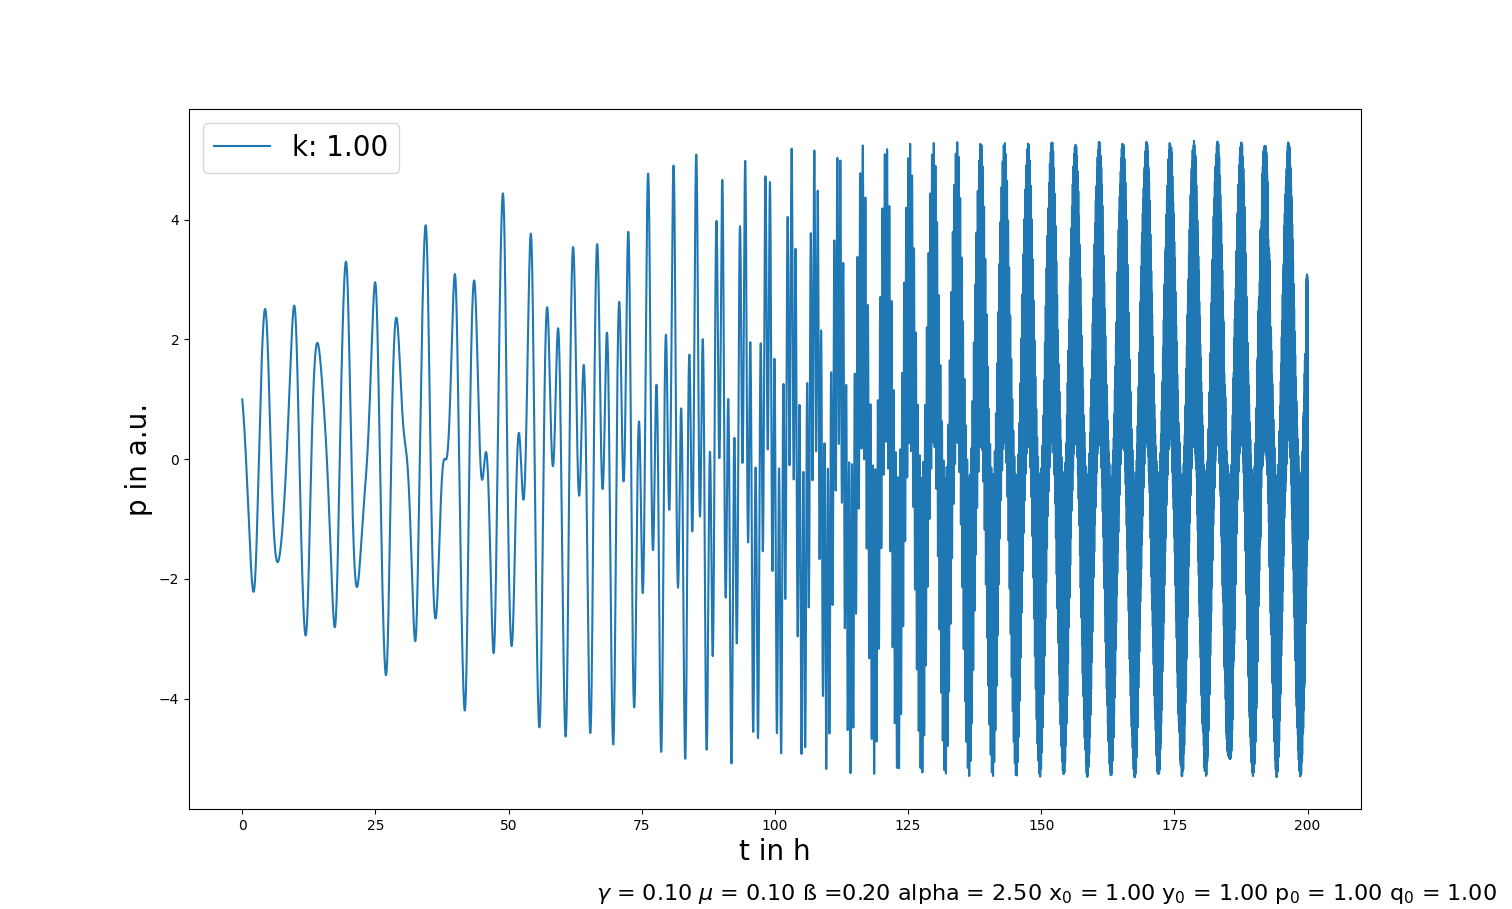
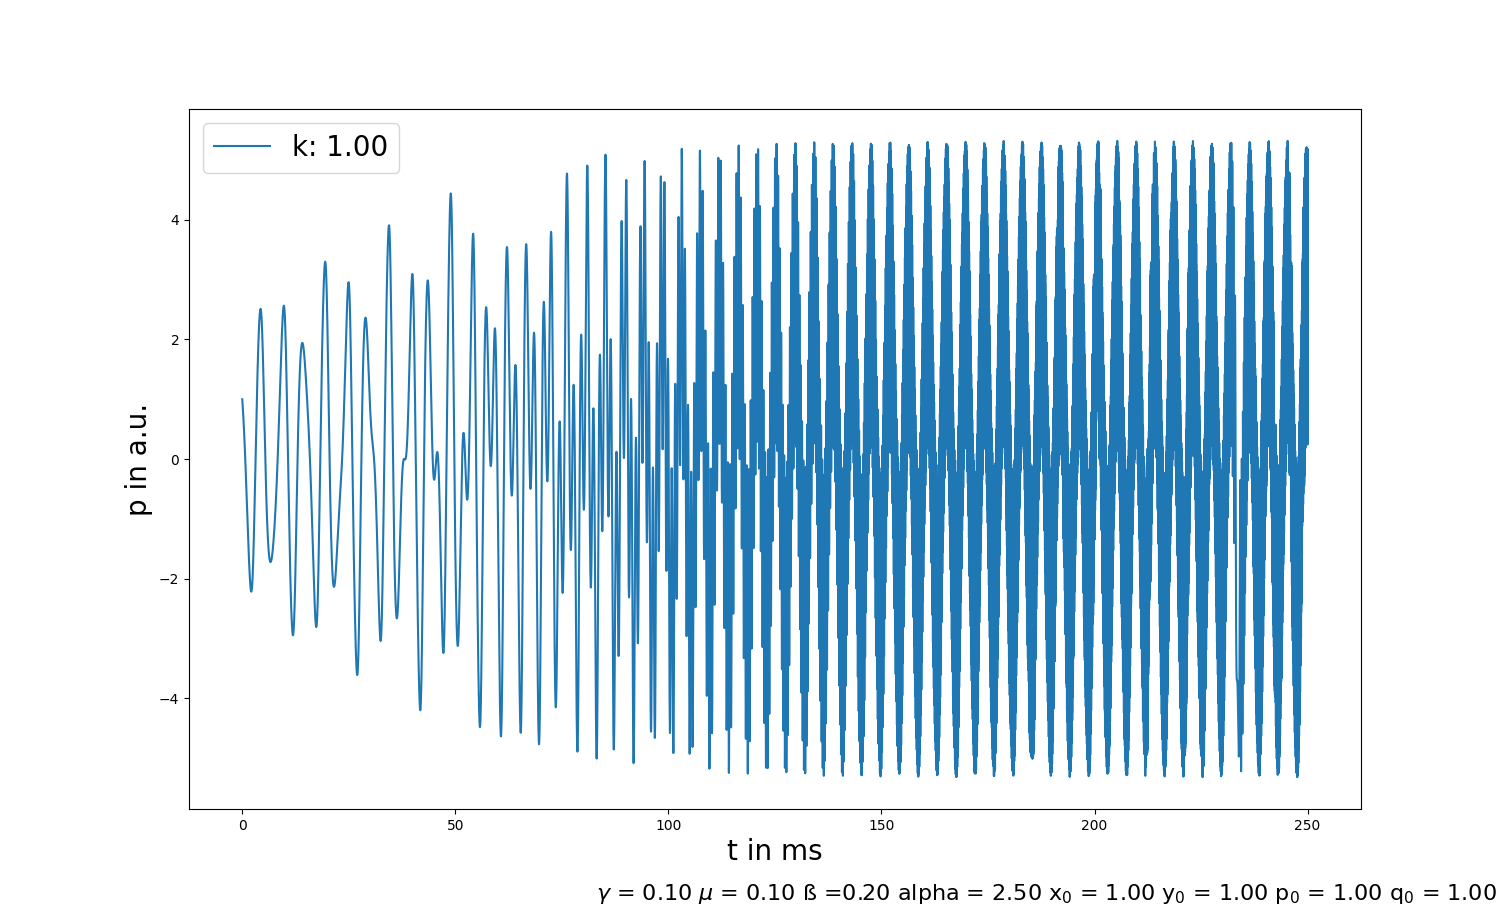
k0

diff --git a/ODE/linearcombi.py b/ODE/linearcombi.py
@@ -85,78 +85,121 @@ t_last = 250 # 50h -> 1 point represent 1h
 t = np.arange(0, 5000, t_step)
 keep = int(t_last / t_step)
 
-x = 1
-y = 1
-q = 1
-p = 1
-par = x,y,p,q
-k = 2.5
-gamma = 0.1
-mu = 0.1
-beta = 0.2
-alpha = 2.5
+# [find peaks]____________________________________________________________________________________________________________________________________________________________________________________________________________
 
-lilie = LinearCoupling(par, t, k, mu, gamma, alpha, beta)
-xsol = lilie.x_solv()[:keep]
-ysol = lilie.y_solv()[:keep]
-psol = lilie.p_solv()[:keep]
-qsol = lilie.q_solv()[:keep]
+# x = 1
+# y = 1
+# q = 1
+# p = 1
+# par = x,y,p,q
+# k = 2.5
+# gamma = 0.1
+# mu = 0.1
+# beta = 0.2
+# alpha = 2.5
 
-x_max = np.argmax(xsol)
-x_amplitude = find_peaks(xsol, height=(-np.repeat(xsol[x_max], keep), np.repeat(xsol[x_max], keep)))
-plt.plot([np.arange(0, t_last, t_step)[i] for i in x_amplitude[0]], x_amplitude[1]['peak_heights'], "x")
-plt.plot(np.arange(0, t_last, t_step), xsol)
-plt.plot(np.arange(0, t_last, t_step),-np.repeat(xsol[x_max], keep),":", color="gray")
-plt.plot(np.arange(0, t_last, t_step),np.repeat(xsol[x_max], keep),":", color="gray")
-title = "k = "+ f"{k:.2f} $\gamma$ = " + f"{gamma:.2f} $\mu$ = " + f"{mu:.2f} ß =" + f"{beta:.2f} alpha = " + f"{alpha:.2f} x$_0$ = " + f"{par[0]:.2f} y$_0$ = "+ f"{par[1]:.2f} p$_0$ = "+ f"{par[2]:.2f} q$_0$ = "+ f"{par[3]:.2f}"
-plt.figtext(0.99, 0.01, title,
-        horizontalalignment="right",
-        fontsize = 16)
-plt.xlabel("t in h", fontsize = 20)
-plt.ylabel("x in a.u.", fontsize = 20)
-plt.show()
+# lilie = LinearCoupling(par, t, k, mu, gamma, alpha, beta)
+# xsol = lilie.x_solv()[:keep]
+# ysol = lilie.y_solv()[:keep]
+# psol = lilie.p_solv()[:keep]
+# qsol = lilie.q_solv()[:keep]
 
-y_max = np.argmax(ysol)
-y_amplitude = find_peaks(ysol, height=(-np.repeat(ysol[:keep][y_max], keep), np.repeat(ysol[:keep][y_max], keep)))
-plt.plot([np.arange(0, t_last, t_step)[i] for i in y_amplitude[0]], y_amplitude[1]['peak_heights'], "x")
-plt.plot(np.arange(0, t_last, t_step), ysol)
-plt.plot(np.arange(0, t_last, t_step),-np.repeat(ysol[y_max], keep),":", color="gray")
-plt.plot(np.arange(0, t_last, t_step),np.repeat(ysol[y_max], keep),":", color="gray")
-title = "k = "+ f"{k:.2f} $\gamma$ = " + f"{gamma:.2f} $\mu$ = " + f"{mu:.2f} ß =" + f"{beta:.2f} alpha = " + f"{alpha:.2f} x$_0$ = " + f"{par[0]:.2f} y$_0$ = "+ f"{par[1]:.2f} p$_0$ = "+ f"{par[2]:.2f} q$_0$ = "+ f"{par[3]:.2f}"
-plt.figtext(0.99, 0.01, title,
-        horizontalalignment="right",
-        fontsize = 16)
-plt.xlabel("t in h", fontsize = 20)
-plt.ylabel("y in a.u.", fontsize = 20)
-plt.show()
+# x_max = np.argmax(xsol)
+# x_amplitude = find_peaks(xsol, height=(-np.repeat(xsol[x_max], keep), np.repeat(xsol[x_max], keep)))
+# plt.plot([np.arange(0, t_last, t_step)[i] for i in x_amplitude[0]], x_amplitude[1]['peak_heights'], "x")
+# plt.plot(np.arange(0, t_last, t_step), xsol)
+# plt.plot(np.arange(0, t_last, t_step),-np.repeat(xsol[x_max], keep),":", color="gray")
+# plt.plot(np.arange(0, t_last, t_step),np.repeat(xsol[x_max], keep),":", color="gray")
+# title = "k = "+ f"{k:.2f} $\gamma$ = " + f"{gamma:.2f} $\mu$ = " + f"{mu:.2f} ß =" + f"{beta:.2f} alpha = " + f"{alpha:.2f} x$_0$ = " + f"{par[0]:.2f} y$_0$ = "+ f"{par[1]:.2f} p$_0$ = "+ f"{par[2]:.2f} q$_0$ = "+ f"{par[3]:.2f}"
+# plt.figtext(0.99, 0.01, title,
+#         horizontalalignment="right",
+#         fontsize = 16)
+# plt.xlabel("t in ms", fontsize = 20)
+# plt.ylabel("x in a.u.", fontsize = 20)
+# plt.show()
 
-p_max = np.argmax(psol)
-p_amplitude = find_peaks(psol, height=(-np.repeat(psol[p_max], keep), np.repeat(psol[p_max], keep)))
-plt.plot([np.arange(0, t_last, t_step)[i] for i in p_amplitude[0]], p_amplitude[1]['peak_heights'], "x")
-plt.plot(np.arange(0, t_last, t_step), psol)
-plt.plot(np.arange(0, t_last, t_step),-np.repeat(psol[p_max], keep),":", color="gray")
-plt.plot(np.arange(0, t_last, t_step),np.repeat(psol[p_max], keep),":", color="gray")
-title = "k = "+ f"{k:.2f} $\gamma$ = " + f"{gamma:.2f} $\mu$ = " + f"{mu:.2f} ß =" + f"{beta:.2f} alpha = " + f"{alpha:.2f} x$_0$ = " + f"{par[0]:.2f} y$_0$ = "+ f"{par[1]:.2f} p$_0$ = "+ f"{par[2]:.2f} q$_0$ = "+ f"{par[3]:.2f}"
-plt.figtext(0.99, 0.01, title,
-        horizontalalignment="right",
-        fontsize = 16)
-plt.xlabel("t in h", fontsize = 20)
-plt.ylabel("p in a.u.", fontsize = 20)
-plt.show()
+# y_max = np.argmax(ysol)
+# y_amplitude = find_peaks(ysol, height=(-np.repeat(ysol[:keep][y_max], keep), np.repeat(ysol[:keep][y_max], keep)))
+# plt.plot([np.arange(0, t_last, t_step)[i] for i in y_amplitude[0]], y_amplitude[1]['peak_heights'], "x")
+# plt.plot(np.arange(0, t_last, t_step), ysol)
+# plt.plot(np.arange(0, t_last, t_step),-np.repeat(ysol[y_max], keep),":", color="gray")
+# plt.plot(np.arange(0, t_last, t_step),np.repeat(ysol[y_max], keep),":", color="gray")
+# title = "k = "+ f"{k:.2f} $\gamma$ = " + f"{gamma:.2f} $\mu$ = " + f"{mu:.2f} ß =" + f"{beta:.2f} alpha = " + f"{alpha:.2f} x$_0$ = " + f"{par[0]:.2f} y$_0$ = "+ f"{par[1]:.2f} p$_0$ = "+ f"{par[2]:.2f} q$_0$ = "+ f"{par[3]:.2f}"
+# plt.figtext(0.99, 0.01, title,
+#         horizontalalignment="right",
+#         fontsize = 16)
+# plt.xlabel("t in ms", fontsize = 20)
+# plt.ylabel("y in a.u.", fontsize = 20)
+# plt.show()
 
-q_max = np.argmax(qsol)
-q_amplitude = find_peaks(qsol, height=(-np.repeat(qsol[q_max], keep), np.repeat(qsol[q_max], keep)))
-plt.plot([np.arange(0, t_last, t_step)[i] for i in q_amplitude[0]], q_amplitude[1]['peak_heights'], "x")
-plt.plot(np.arange(0, t_last, t_step), qsol)
-plt.plot(np.arange(0, t_last, t_step),-np.repeat(qsol[q_max], keep),":", color="gray")
-plt.plot(np.arange(0, t_last, t_step),np.repeat(qsol[q_max], keep),":", color="gray")
-title = "k = "+ f"{k:.2f} $\gamma$ = " + f"{gamma:.2f} $\mu$ = " + f"{mu:.2f} ß =" + f"{beta:.2f} alpha = " + f"{alpha:.2f} x$_0$ = " + f"{par[0]:.2f} y$_0$ = "+ f"{par[1]:.2f} p$_0$ = "+ f"{par[2]:.2f} q$_0$ = "+ f"{par[3]:.2f}"
-plt.figtext(0.99, 0.01, title,
-        horizontalalignment="right",
-        fontsize = 16)
-plt.xlabel("t in h", fontsize = 20)
-plt.ylabel("q in a.u.", fontsize = 20)
-plt.show()
+# p_max = np.argmax(psol)
+# p_amplitude = find_peaks(psol, height=(-np.repeat(psol[p_max], keep), np.repeat(psol[p_max], keep)))
+# plt.plot([np.arange(0, t_last, t_step)[i] for i in p_amplitude[0]], p_amplitude[1]['peak_heights'], "x")
+# plt.plot(np.arange(0, t_last, t_step), psol)
+# plt.plot(np.arange(0, t_last, t_step),-np.repeat(psol[p_max], keep),":", color="gray")
+# plt.plot(np.arange(0, t_last, t_step),np.repeat(psol[p_max], keep),":", color="gray")
+# title = "k = "+ f"{k:.2f} $\gamma$ = " + f"{gamma:.2f} $\mu$ = " + f"{mu:.2f} ß =" + f"{beta:.2f} alpha = " + f"{alpha:.2f} x$_0$ = " + f"{par[0]:.2f} y$_0$ = "+ f"{par[1]:.2f} p$_0$ = "+ f"{par[2]:.2f} q$_0$ = "+ f"{par[3]:.2f}"
+# plt.figtext(0.99, 0.01, title,
+#         horizontalalignment="right",
+#         fontsize = 16)
+# plt.xlabel("t in ms", fontsize = 20)
+# plt.ylabel("p in a.u.", fontsize = 20)
+# plt.show()
+
+# q_max = np.argmax(qsol)
+# q_amplitude = find_peaks(qsol, height=(-np.repeat(qsol[q_max], keep), np.repeat(qsol[q_max], keep)))
+# plt.plot([np.arange(0, t_last, t_step)[i] for i in q_amplitude[0]], q_amplitude[1]['peak_heights'], "x")
+# plt.plot(np.arange(0, t_last, t_step), qsol)
+# plt.plot(np.arange(0, t_last, t_step),-np.repeat(qsol[q_max], keep),":", color="gray")
+# plt.plot(np.arange(0, t_last, t_step),np.repeat(qsol[q_max], keep),":", color="gray")
+# title = "k = "+ f"{k:.2f} $\gamma$ = " + f"{gamma:.2f} $\mu$ = " + f"{mu:.2f} ß =" + f"{beta:.2f} alpha = " + f"{alpha:.2f} x$_0$ = " + f"{par[0]:.2f} y$_0$ = "+ f"{par[1]:.2f} p$_0$ = "+ f"{par[2]:.2f} q$_0$ = "+ f"{par[3]:.2f}"
+# plt.figtext(0.99, 0.01, title,
+#         horizontalalignment="right",
+#         fontsize = 16)
+# plt.xlabel("t in ms", fontsize = 20)
+# plt.ylabel("q in a.u.", fontsize = 20)
+# plt.show()
+
+
+# [find omega, period]_________________________________________________________________________________________________________________________________________________________________________________________________________________________________________________________________________________
+
+# x = 1
+# y = 1
+# q = 1
+# p = 1
+# par = x,y,p,q
+# k = 0
+# gamma = 0.1
+# mu = 0.1
+# beta = 0.2
+# alpha = 2.5
+
+# lilie = LinearCoupling(par, t, k, mu, gamma, alpha, beta)
+# xsol = lilie.x_solv()[:keep]
+# ysol = lilie.y_solv()[:keep]
+# psol = lilie.p_solv()[:keep]
+# qsol = lilie.q_solv()[:keep]
+
+# x_max = np.argmax(xsol)
+# x_amplitude = find_peaks(xsol, height=(-np.repeat(xsol[x_max], keep), np.repeat(xsol[x_max], keep)))
+# x_t_peaks = [np.arange(0, t_last, t_step)[i] for i in x_amplitude[0]]
+# print(np.diff(x_t_peaks))
+
+# y_max = np.argmax(ysol)
+# y_amplitude = find_peaks(ysol, height=(-np.repeat(ysol[:keep][y_max], keep), np.repeat(ysol[:keep][y_max], keep)))
+# y_t_peaks = [np.arange(0, t_last, t_step)[i] for i in y_amplitude[0]]
+
+# p_max = np.argmax(psol)
+# p_amplitude = find_peaks(psol, height=(-np.repeat(psol[p_max], keep), np.repeat(psol[p_max], keep)))
+# p_t_peaks = [np.arange(0, t_last, t_step)[i] for i in p_amplitude[0]]
+
+# q_max = np.argmax(qsol)
+# q_amplitude = find_peaks(qsol, height=(-np.repeat(qsol[q_max], keep), np.repeat(qsol[q_max], keep)))
+# q_t_peaks = [np.arange(0, t_last, t_step)[i] for i in q_amplitude[0]]
+
+
+
+
 
 # [plotting values against time]_________________________________________________________________________________________________________________________
 
@@ -186,7 +229,7 @@ plt.show()
 # plt.plot(np.arange(0, t_last, t_step), q_sol[:keep], label = "q(t)")
 # title = "k = " + f"{k:.2f} \n$\gamma$ = " + f"{gamma:.2f} \n$\mu$ = " + f"{mu:.2f} \nß =" + f"{beta:.2f} \nalpha = " + f"{alpha:.2f} \nx$_0$ = " + f"{par[0][0]:.2f} \ny$_0$ = "+ f"{par[0][1]:.2f} \np$_0$ = "+ f"{par[0][2]:.2f} \nq$_0$ = "+ f"{par[0][3]:.2f}"
 # plt.legend()
-# plt.xlabel("t in h")
+# plt.xlabel("t in ms")
 # plt.ylabel("[x,y,p,q] in a.u.")
 # plt.text(0,1,title, fontsize = 10)
 # plt.show()
@@ -198,7 +241,7 @@ plt.show()
 # q = 1
 # p = 1
 # par = x,y,p,q
-# k = [5]
+# k = [0]
 # gamma = 0.1
 # mu = 0.1
 # beta = 0.2
@@ -212,8 +255,8 @@ plt.show()
 #     plt.plot(np.arange(0, t_last, t_step), x_sol[i][:keep], label = f"k: {k[i]:.2f}")
 # plt.ylabel("x in a.u.", fontsize = 20)
 # title = "$\gamma$ = " + f"{gamma:.2f} $\mu$ = " + f"{mu:.2f} ß =" + f"{beta:.2f} alpha = " + f"{alpha:.2f} x$_0$ = " + f"{par[0]:.2f} y$_0$ = "+ f"{par[1]:.2f} p$_0$ = "+ f"{par[2]:.2f} q$_0$ = "+ f"{par[3]:.2f}"
-# plt.legend(fontsize = 20)
-# plt.xlabel("t in h", fontsize = 20)
+# plt.legend(fontsize = 20, loc = "upper right")
+# plt.xlabel("t in ms", fontsize = 20)
 # plt.figtext(0.99, 0.01, title,
 #         horizontalalignment="right",
 #         fontsize = 16)
@@ -222,8 +265,8 @@ plt.show()
 #     plt.plot(np.arange(0, t_last, t_step), y_sol[i][:keep], label = f"k: {k[i]:.2f}")
 # plt.ylabel("y in a.u.", fontsize = 20)
 # title = "$\gamma$ = " + f"{gamma:.2f} $\mu$ = " + f"{mu:.2f} ß =" + f"{beta:.2f} alpha = " + f"{alpha:.2f} x$_0$ = " + f"{par[0]:.2f} y$_0$ = "+ f"{par[1]:.2f} p$_0$ = "+ f"{par[2]:.2f} q$_0$ = "+ f"{par[3]:.2f}"
-# plt.legend(fontsize = 20)
-# plt.xlabel("t in h", fontsize = 20)
+# plt.legend(fontsize = 20, loc = "upper left")
+# plt.xlabel("t in ms", fontsize = 20)
 # plt.figtext(0.99, 0.01, title,
 #         horizontalalignment="right",
 #         fontsize = 16)
@@ -232,8 +275,8 @@ plt.show()
 #     plt.plot(np.arange(0, t_last, t_step), p_sol[i][:keep], label = f"k: {k[i]:.2f}")
 # plt.ylabel("p in a.u.", fontsize = 20)
 # title = "$\gamma$ = " + f"{gamma:.2f} $\mu$ = " + f"{mu:.2f} ß =" + f"{beta:.2f} alpha = " + f"{alpha:.2f} x$_0$ = " + f"{par[0]:.2f} y$_0$ = "+ f"{par[1]:.2f} p$_0$ = "+ f"{par[2]:.2f} q$_0$ = "+ f"{par[3]:.2f}"
-# plt.legend(fontsize = 20)
-# plt.xlabel("t in h", fontsize = 20)
+# plt.legend(fontsize = 20, loc = "upper right")
+# plt.xlabel("t in ms", fontsize = 20)
 # plt.figtext(0.99, 0.01, title,
 #         horizontalalignment="right",
 #         fontsize = 16)
@@ -242,8 +285,8 @@ plt.show()
 #     plt.plot(np.arange(0, t_last, t_step), q_sol[i][:keep], label = f"k: {k[i]:.2f}")
 # plt.ylabel("q in a.u.", fontsize = 20)
 # title = "$\gamma$ = " + f"{gamma:.2f} $\mu$ = " + f"{mu:.2f} ß =" + f"{beta:.2f} alpha = " + f"{alpha:.2f} x$_0$ = " + f"{par[0]:.2f} y$_0$ = "+ f"{par[1]:.2f} p$_0$ = "+ f"{par[2]:.2f} q$_0$ = "+ f"{par[3]:.2f}"
-# plt.legend(fontsize = 20)
-# plt.xlabel("t in h", fontsize = 20)
+# plt.legend(fontsize = 20, loc = "upper left")
+# plt.xlabel("t in ms", fontsize = 20)
 # plt.figtext(0.99, 0.01, title,
 #         horizontalalignment="right",
 #         fontsize = 16)
@@ -259,7 +302,7 @@ plt.show()
 # for i in range(len(x)):
 #     par.append((x[i],y[i],p[i],q[i]))
 
-# k = 5
+# k = 0
 # gamma = 0.1
 # mu = 0.1
 # beta = 0.2
@@ -270,7 +313,7 @@ plt.show()
 # q_sol = [LinearCoupling(i, t, k, mu, gamma, alpha, beta).q_solv() for i in par]
 
 # for i in range(len(x)):
-#     label = f"x = {par[i][0]:.2f} \ny = {par[i][1]:.2f}"
+#     label = f"x$_0$ = {par[i][0]:.2f} \ny$_0$ = {par[i][1]:.2f}"
 #     plt.plot(x_sol[i][:keep],y_sol[i][:keep],label = label)
 # plt.xlabel("x in a.u.",fontsize = 20)
 # plt.ylabel("y in a.u.",fontsize = 20)
@@ -283,7 +326,7 @@ plt.show()
 # plt.show()
 
 # for i in range(len(x)):
-#     label = f"y = {par[i][1]:.2f} \np = {par[i][2]:.2f}"
+#     label = f"y$_0$ = {par[i][1]:.2f} \np$_0$ = {par[i][2]:.2f}"
 #     plt.plot(y_sol[i][:keep],p_sol[i][:keep],label = label)
 # plt.xlabel("y in a.u.",fontsize = 20)
 # plt.ylabel("p in a.u.",fontsize = 20)
@@ -296,7 +339,7 @@ plt.show()
 # plt.show()
 
 # for i in range(len(x)):
-#     label = f"p = {par[i][2]:.2f} \nq = {par[i][3]:.2f}"
+#     label = f"p$_0$ = {par[i][2]:.2f} \nq$_0$ = {par[i][3]:.2f}"
 #     plt.plot(p_sol[i][:keep],q_sol[i][:keep],label = label)
 # plt.xlabel("p in a.u.",fontsize = 20)
 # plt.ylabel("q in a.u.",fontsize = 20)
@@ -309,7 +352,7 @@ plt.show()
 # plt.show()
 
 # for i in range(len(x)):
-#     label = f"x = {par[i][0]:.2f} \nq = {par[i][3]:.2f}"
+#     label = f"x$_0$ = {par[i][0]:.2f} \nq$_0$ = {par[i][3]:.2f}"
 #     plt.plot(x_sol[i][:keep],q_sol[i][:keep],label = label)
 # plt.xlabel("x in a.u.",fontsize = 20)
 # plt.ylabel("q in a.u.",fontsize = 20)
